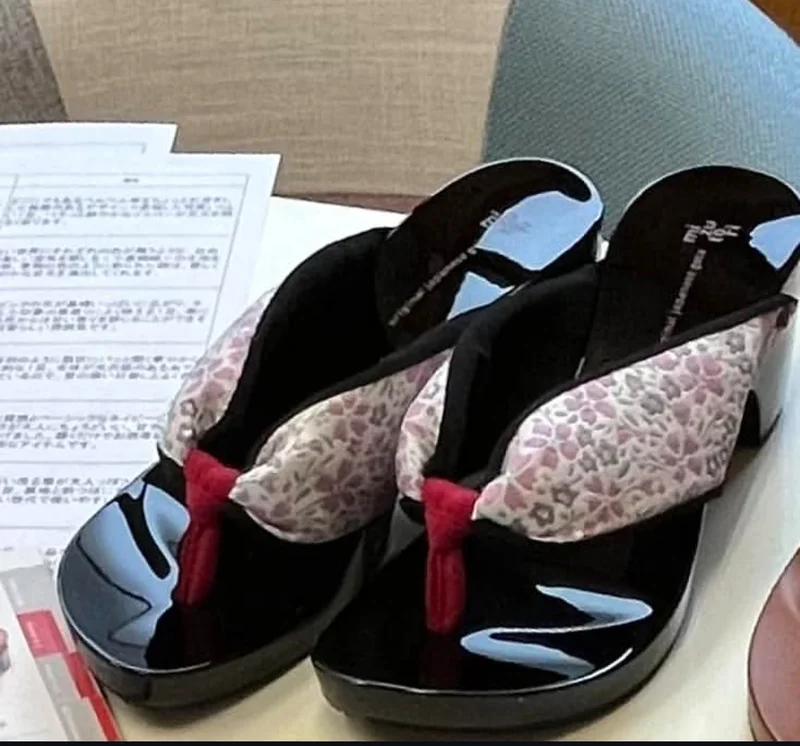
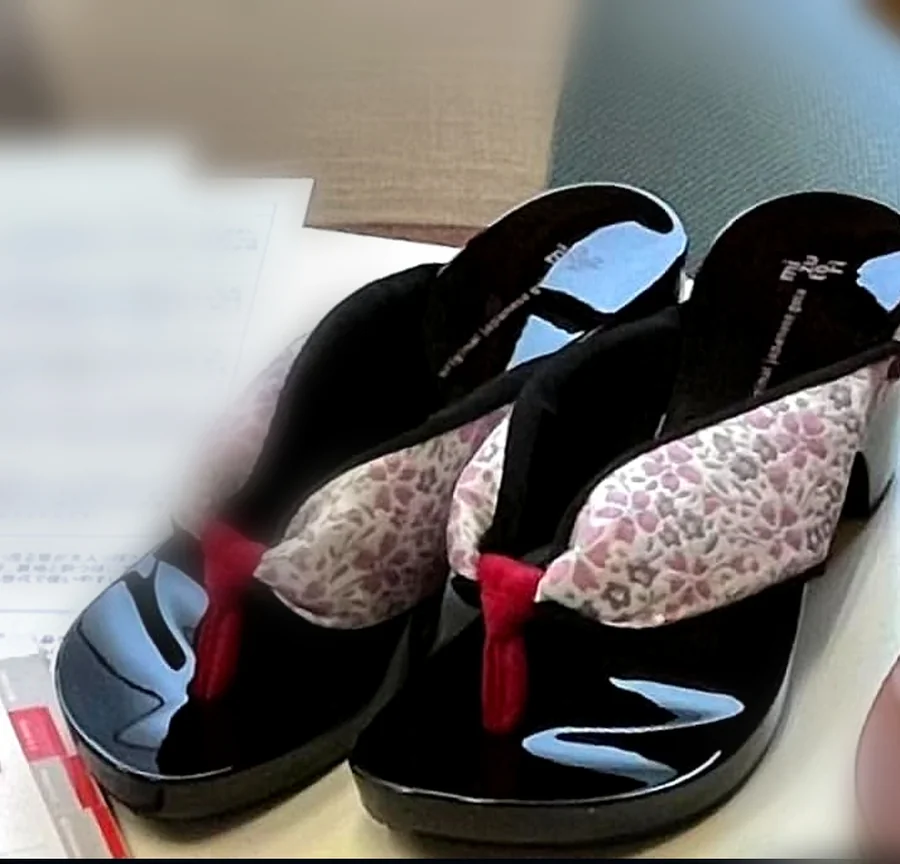
水鳥の草履の商品写真を改善（背景ぼかし・色調補正）
背景の書類や本棚が目立ちすぎていたため、被写界深度風の背景ぼかしで
商品にフォーカスし、コントラスト・彩度を軽く補正。画像サイズ属性も
差し替え後の解像度に合わせて更新。

Claude-Session: https://claude.ai/code/session_019jexkW3bfAbZiUnj3WBAKE

diff --git a/products.html b/products.html
@@ -157,7 +157,7 @@
                   <span>水鳥の下駄</span>
                 </a>
                 <a class="product-grid__item" href="#product-zori">
-                  <img src="./assets/zori-floral.webp" width="800" height="746" loading="lazy" alt="花柄生地の草履">
+                  <img src="./assets/zori-floral.webp" width="900" height="864" loading="lazy" alt="花柄生地の草履">
                   <span>水鳥の草履</span>
                 </a>
                 <a class="product-grid__item" href="#socks">
@@ -305,8 +305,8 @@
                   <div class="legacy-gallery__frame">
                     <img
                       src="./assets/zori-floral.webp"
-                      width="800"
-                      height="746"
+                      width="900"
+                      height="864"
                       loading="lazy"
                       alt="花柄生地の草履"
                    >
@@ -317,8 +317,8 @@
                   <div class="legacy-gallery__frame">
                     <img
                       src="./assets/zori-metallic.webp"
-                      width="800"
-                      height="738"
+                      width="900"
+                      height="837"
                       loading="lazy"
                       alt="メタリックカラーの草履"
                    >